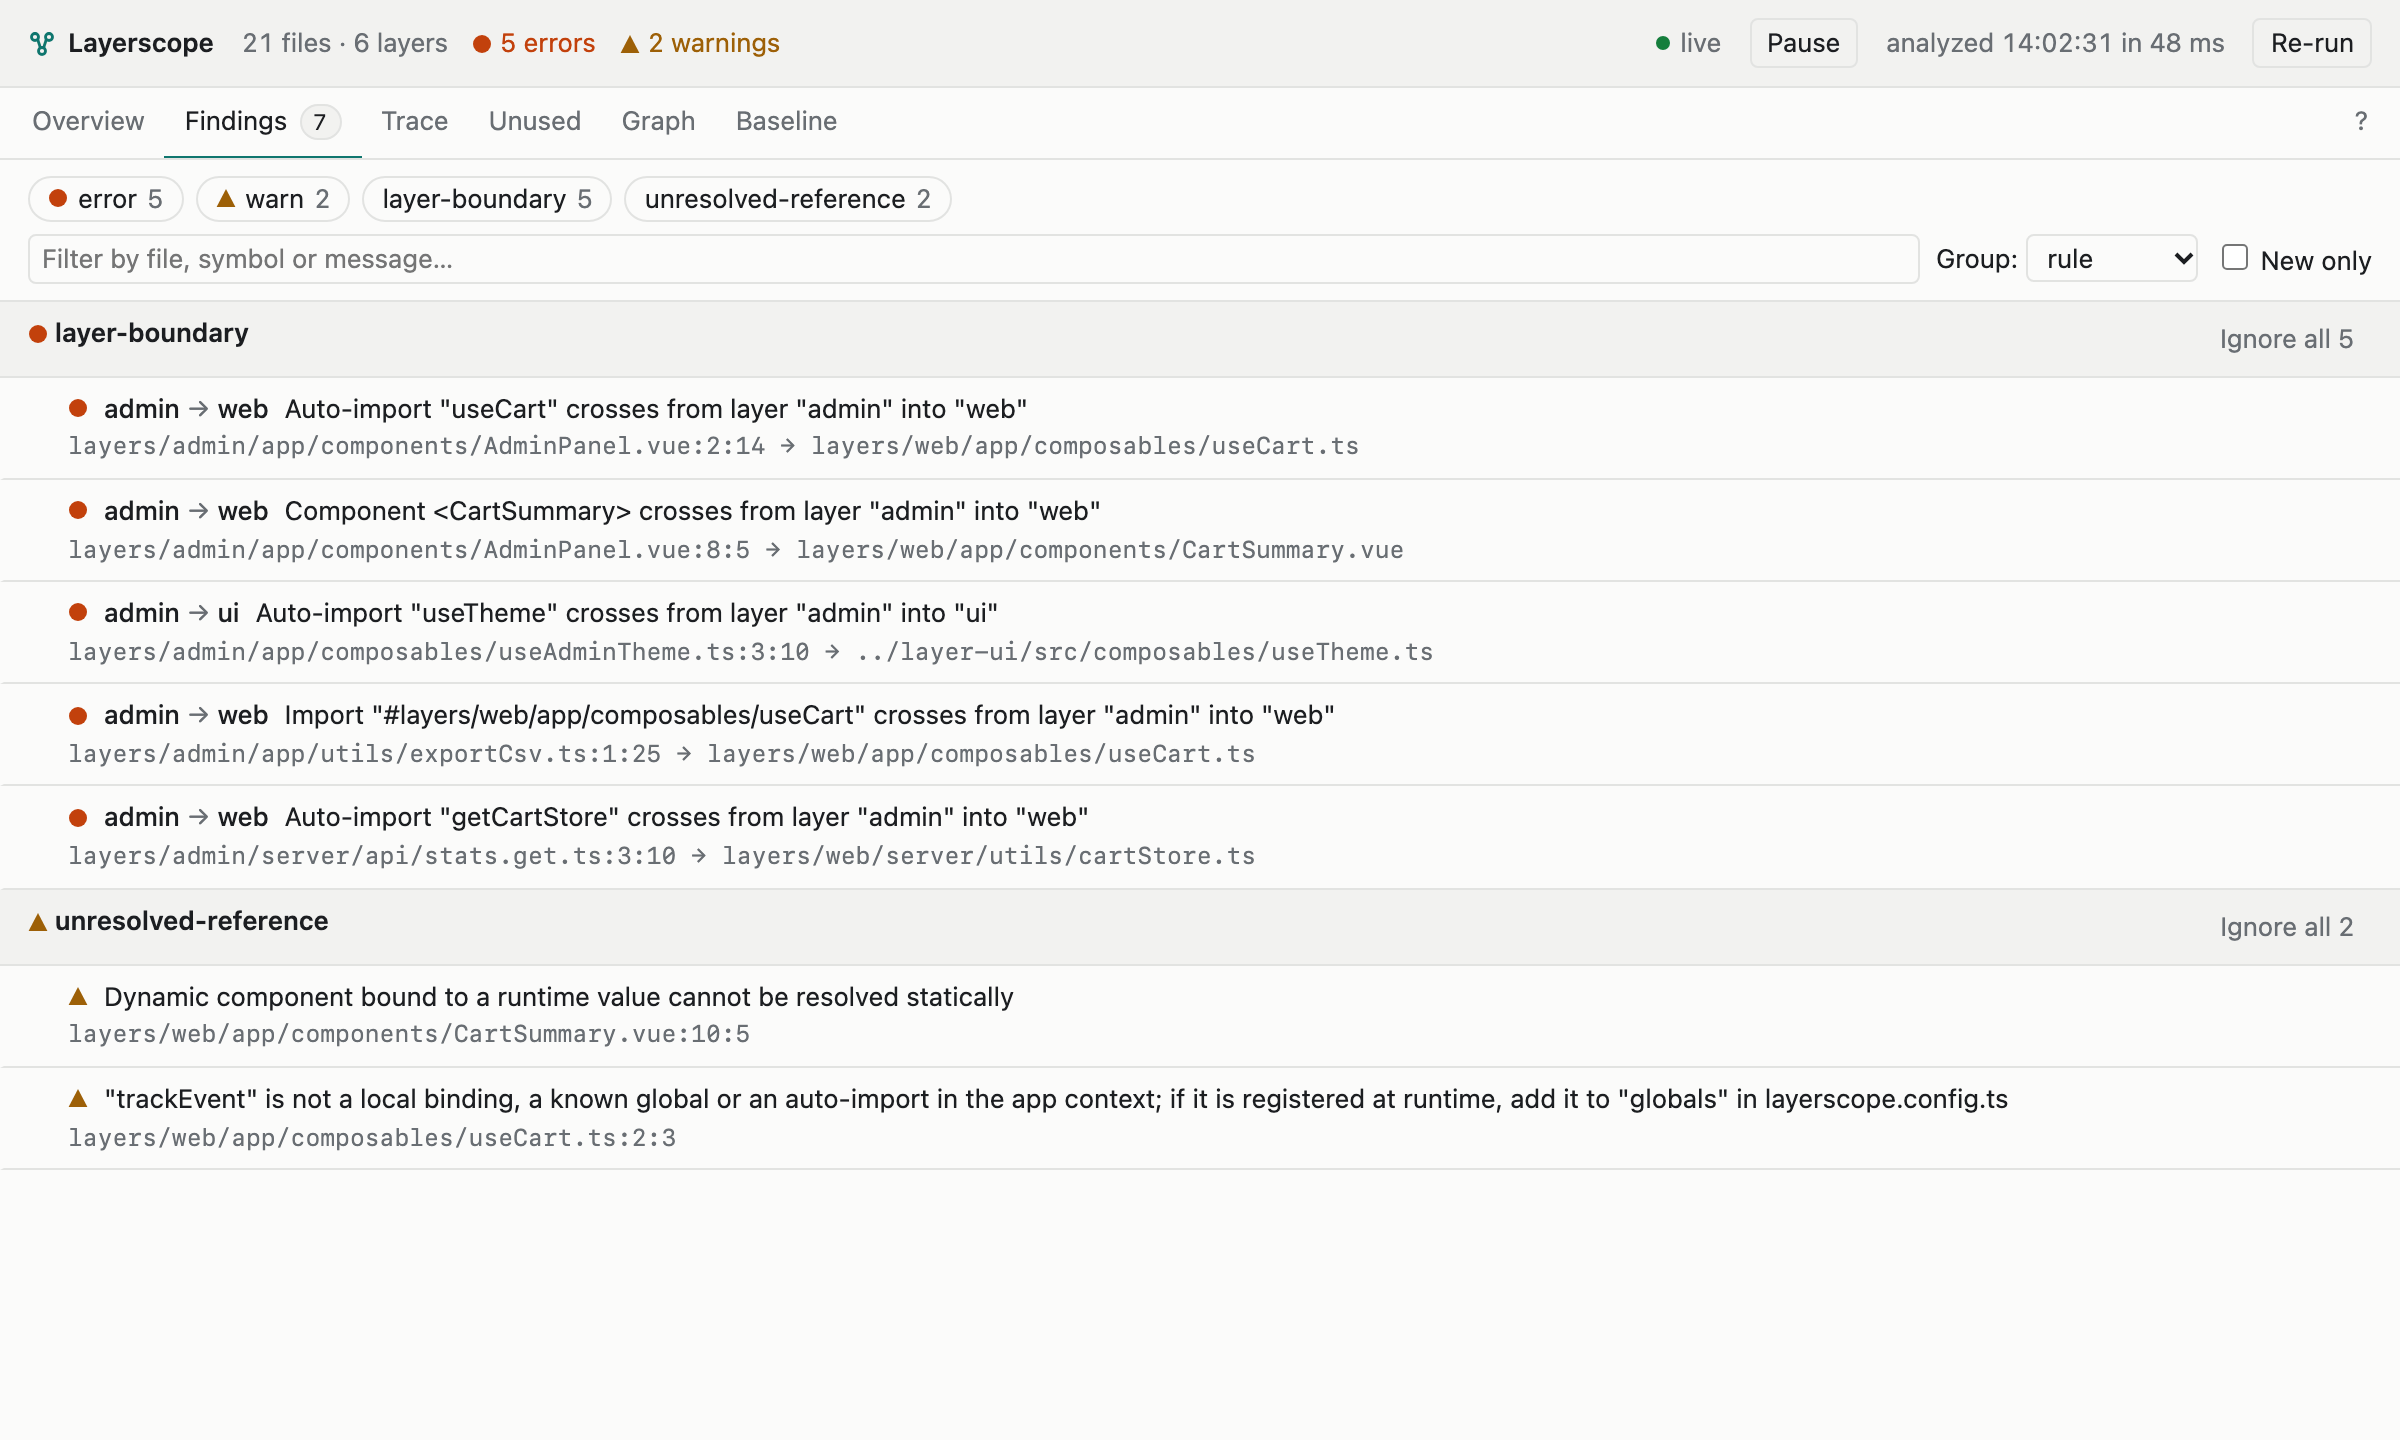
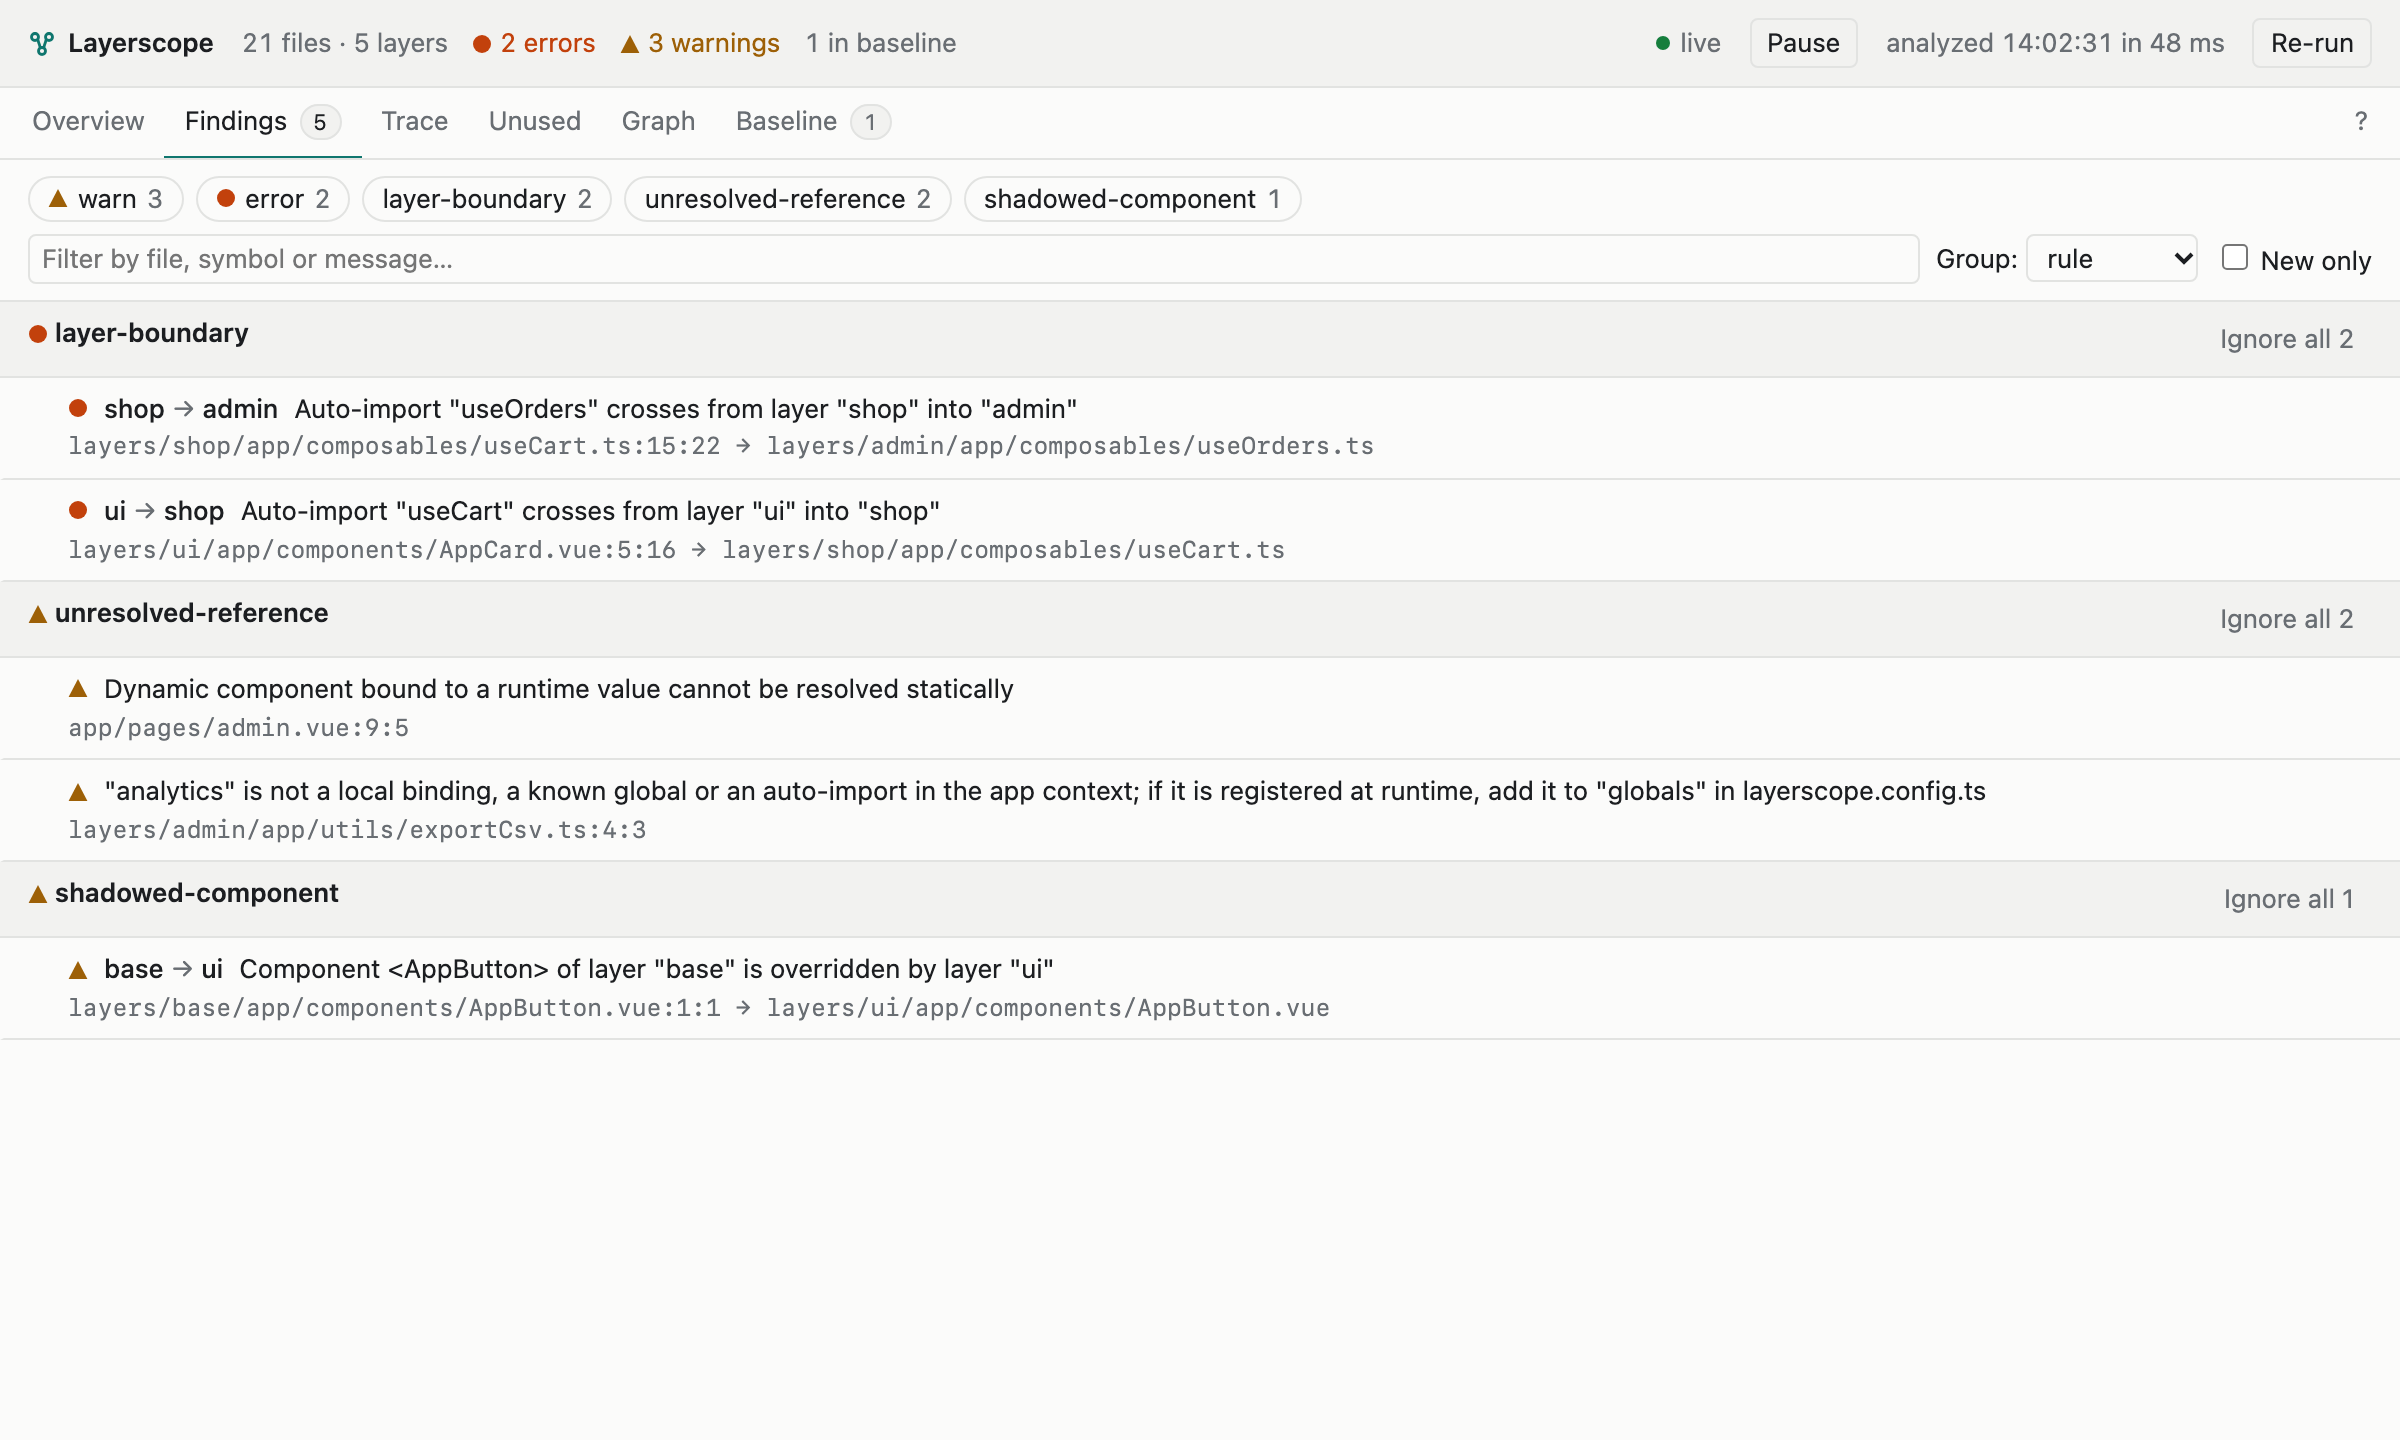
docs(devtools): refresh the screenshots

diff --git a/packages/docs/guide/devtools.md b/packages/docs/guide/devtools.md
@@ -27,9 +27,9 @@ The bar at the top shows the file and layer counts, the errors and warnings, the
 | **Graph**    | `5` | The layers and their dependencies. Violations are dashed lines with an `!N` badge.       |
 | **Baseline** | `6` | The findings that the baseline accepts, and entries that no longer match a finding.      |
 
-Every count is a link. For example, click **5 errors** to see only the errors in **Findings**.
+Every count is a link. For example, click **2 errors** to see only the errors in **Findings**.
 Click a file name to open the file in your editor at that line. The pictures below show the
-`nuxt4` test project of this repository.
+[playground](https://github.com/hamedniroomand/nuxt-layerscope/tree/main/packages/playground) app of this repository.
 
 ### Overview
 
@@ -37,7 +37,7 @@ The counts, a small copy of the graph, and the files with the most findings. Pre
 
 <Screenshot
   name="overview"
-  alt="The Overview view: 21 files in 6 layers, 5 errors and 2 warnings, a small layer graph, and the six files that have findings."
+  alt="The Overview view: 21 files in 5 layers, 2 errors, 3 warnings and 1 finding in the baseline, a small layer graph, and the five files that have findings."
 />
 
 ### Findings
@@ -47,7 +47,7 @@ text; the filters stay in the URL. Press <kbd>2</kbd>, then <kbd>/</kbd> to filt
 
 <Screenshot
   name="findings"
-  alt="The Findings view: 7 findings in two groups, layer-boundary with 5 errors and unresolved-reference with 2 warnings."
+  alt="The Findings view: 5 findings in three groups: layer-boundary with 2 errors, unresolved-reference with 2 warnings and shadowed-component with 1 warning."
 />
 
 Select a finding with <kbd>j</kbd> and <kbd>k</kbd>. The selected finding shows a suggestion from
@@ -58,7 +58,7 @@ finding into the baseline.
 
 <Screenshot
   name="findings-selected"
-  alt="The first finding selected: admin uses useCart from web. The suggestion allows admin to use web, which resolves 4 findings in 3 files, with the config snippet and the Ignore, Trace and Open buttons."
+  alt="The first finding selected: shop uses useOrders from admin. The suggestion moves it to the base layer, which clears 1 finding, with the Ignore, Trace and Open buttons."
 />
 
 ### Trace
@@ -68,7 +68,7 @@ Every use of a component or auto-import, grouped by layer, as `layerscope why` s
 
 <Screenshot
   name="trace"
-  alt="The Trace view for useCart: 2 uses in 2 layers, not allowed from admin and in the same layer from web."
+  alt="The Trace view for useCart: 3 uses in 3 layers, not allowed from ui, allowed from admin, and in the same layer from shop."
 />
 
 ### Unused
@@ -78,7 +78,7 @@ Components and auto-imports that nothing uses, as `layerscope unused` shows them
 
 <Screenshot
   name="unused"
-  alt="The Unused view: 4 unused symbols in 2 layers, the CartBadge component in web and three auto-imports in admin."
+  alt="The Unused view: 2 unused symbols in 2 layers, the AppBadge component in ui and the formatDate auto-import in base, with a note about components chosen at runtime."
 />
 
 ### Graph
@@ -90,7 +90,7 @@ see its files and the layers it uses. Click a line to see the symbols and files 
 
 <Screenshot
   name="graph"
-  alt="The Graph view: six layers, the admin to web edge selected, and the side panel lists four symbols with their kinds."
+  alt="The Graph view: five layers from root to base, three violations that run back from right to left, and the ui to shop edge selected with useCart in the side panel."
 />
 
 **Table** shows the same data as a matrix: rows use the layers in the columns. Above 15 layers, the
@@ -103,7 +103,7 @@ Press <kbd>6</kbd>.
 
 <Screenshot
   name="baseline"
-  alt="The Baseline view: 2 warnings accepted into layerscope-baseline.json, each with a Remove from baseline button."
+  alt="The Baseline view: 1 error accepted into layerscope-baseline.json, base using useToast from ui, with a Remove from baseline button."
 />
 
 ## Live updates

diff --git a/packages/layerscope/README.md b/packages/layerscope/README.md
@@ -2,7 +2,7 @@
 
 Layer boundary checks for Nuxt 3 and 4 apps that also see auto-imports.
 
-<a href="https://layerscope.kitdev.space/guide/devtools"><img src="https://layerscope.kitdev.space/devtools/hero-dark.webp" width="1600" height="611" alt="The Layerscope tab in Nuxt DevTools: the layer graph of six layers, the admin to web edge selected, with its four symbols in the side panel"></a>
+<a href="https://layerscope.kitdev.space/guide/devtools"><img src="https://layerscope.kitdev.space/devtools/hero-dark.webp" width="1600" height="611" alt="The Layerscope tab in Nuxt DevTools: the layer graph of five layers with three violations, the ui to shop edge selected, with useCart in the side panel"></a>
 
 <sub>The Layerscope tab in Nuxt DevTools shows every finding, the layer graph and where each symbol is used. It updates when you save a file.</sub>
 

diff --git a/README.md b/README.md
@@ -20,7 +20,7 @@
   <a href="https://layerscope.kitdev.space/guide/devtools">
     <picture>
       <source media="(prefers-color-scheme: dark)" srcset="./packages/docs/public/devtools/hero-dark.webp">
-      <img src="./packages/docs/public/devtools/hero-light.webp" width="1600" height="611" alt="The Layerscope tab in Nuxt DevTools: the layer graph of six layers, the admin to web edge selected, with its four symbols in the side panel">
+      <img src="./packages/docs/public/devtools/hero-light.webp" width="1600" height="611" alt="The Layerscope tab in Nuxt DevTools: the layer graph of five layers with three violations, the ui to shop edge selected, with useCart in the side panel">
     </picture>
   </a>
   <br>

diff --git a/packages/docs/index.md b/packages/docs/index.md
@@ -33,7 +33,7 @@ graph and where each symbol is used, and it updates when you save a file.
 
 <Screenshot
   name="overview"
-  alt="The Layerscope tab in Nuxt DevTools: the Overview view with 5 errors and 2 warnings in 6 layers, a small layer graph and the files with findings."
+  alt="The Layerscope tab in Nuxt DevTools: the Overview view with 2 errors and 3 warnings in 5 layers, a small layer graph and the files with findings."
 />
 
 ## The dependencies nobody imports
